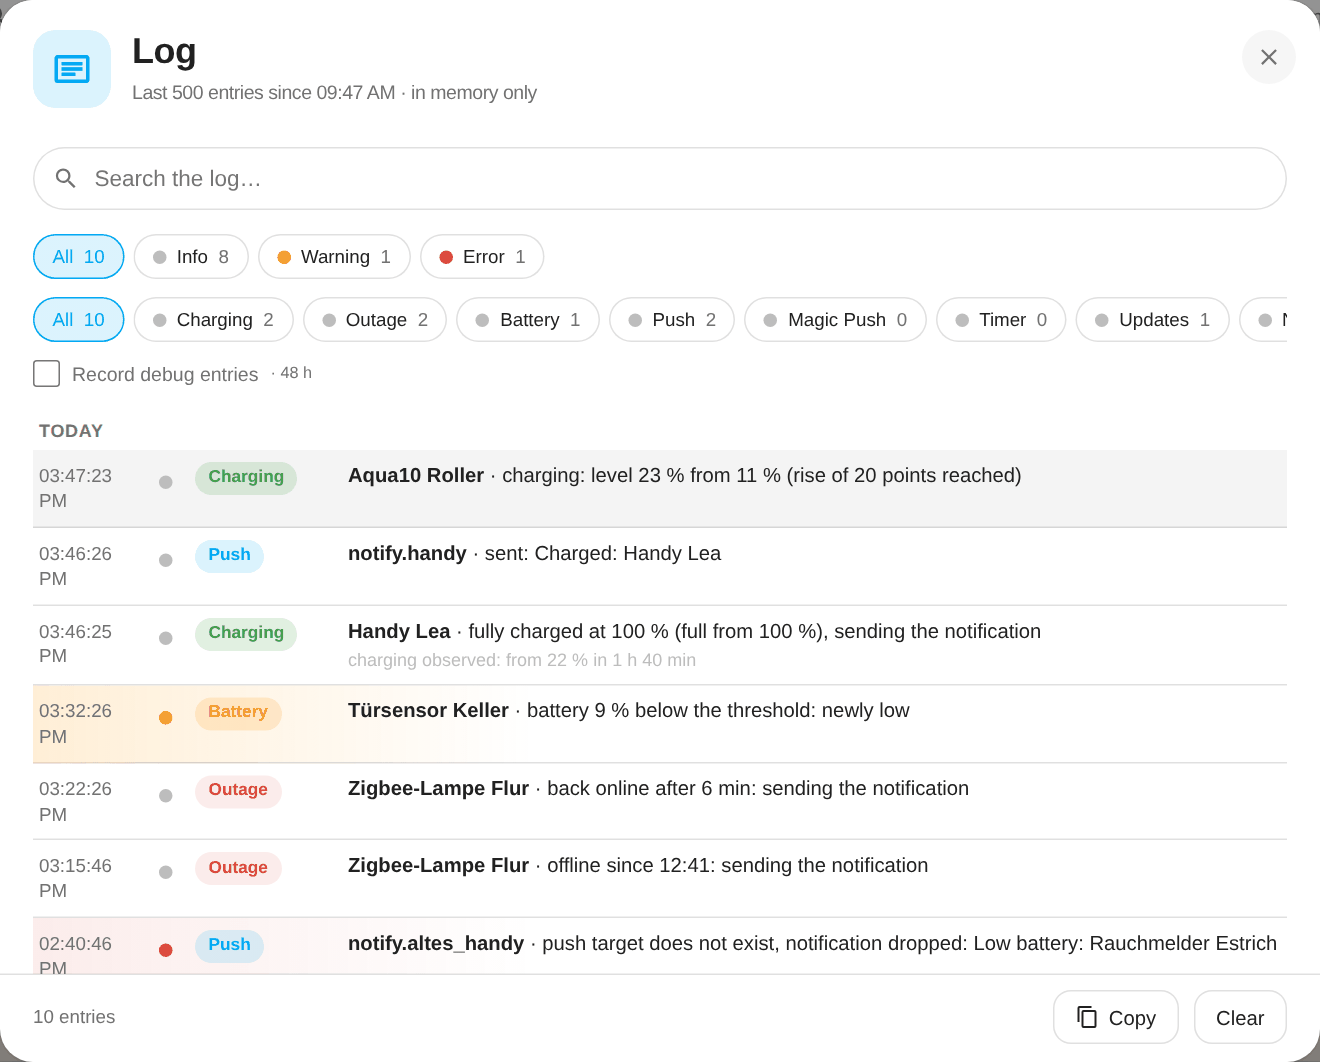
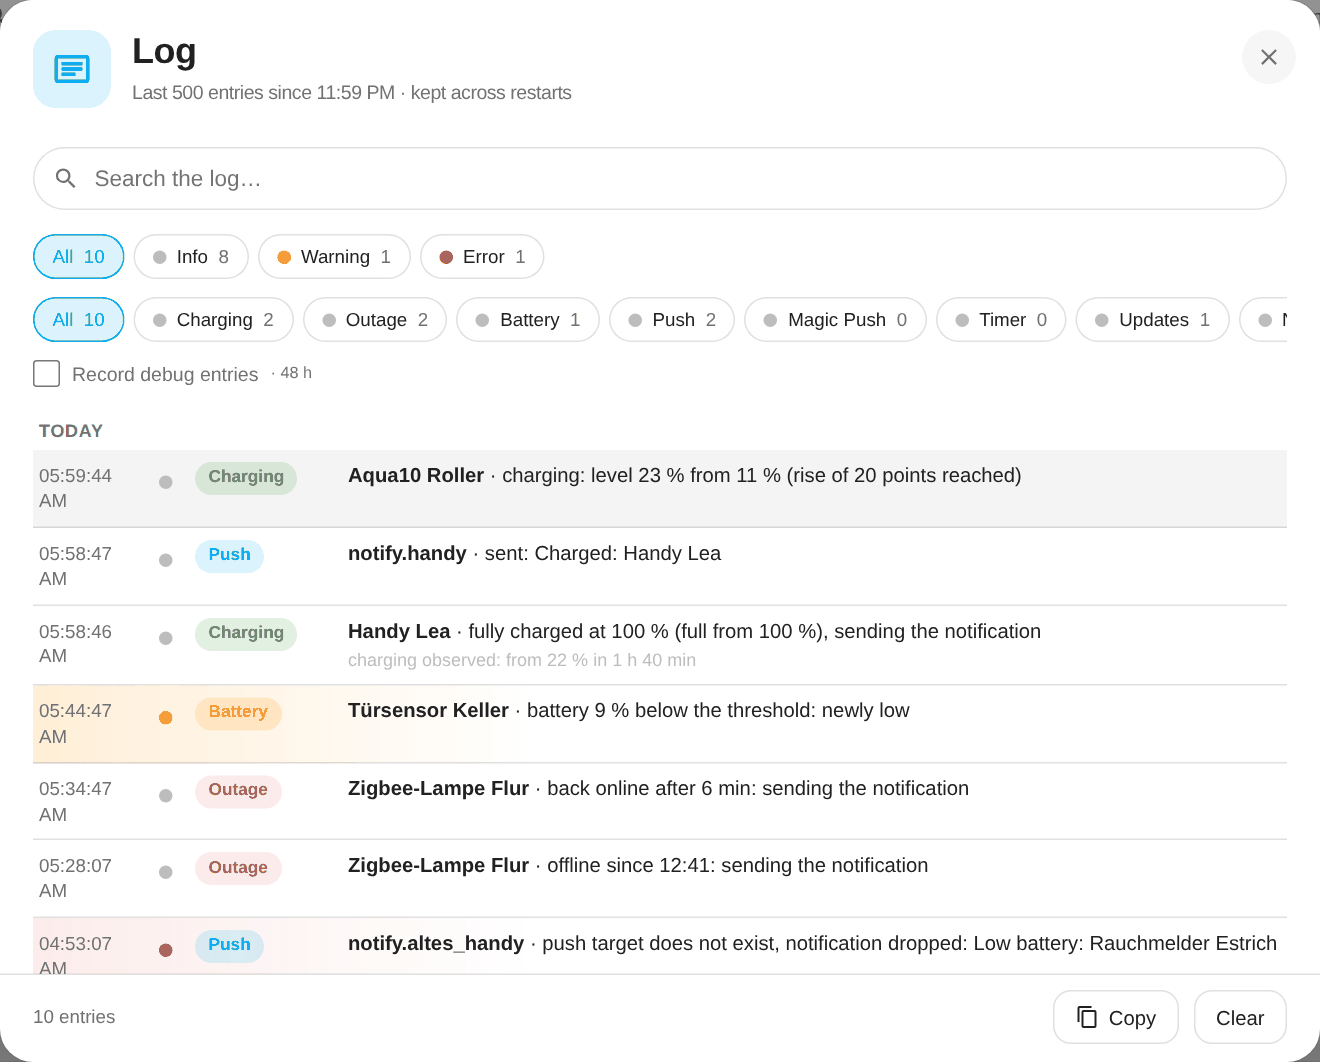
2.47.0: Protokoll-Einträge bleiben über Neustarts erhalten
- activity.py: die letzten 500 Einträge (Debug eingeschlossen) liegen mit dem Debug-Schalter in der Protokoll-Datei,
  verzögert geschrieben (30 s, ein angesetztes Schreiben wird nicht neu gestartet), beim Start vor die neuen Einträge gesetzt;
  beschädigte Einträge werden übersprungen, "Leeren" und Entfernen der Integration löschen sie
- Panel: Fenstertext "bleiben nach einem Neustart erhalten", Bilder log.png (DE/EN) neu
- Tests: test_activity.py (Neustart, Grenze 500, beschädigte Einträge); README und CHANGELOG (DE/EN)

Claude-Session: https://claude.ai/code/session_01U1q7hu4Br2u4E6fFdEJMgU

diff --git a/custom_components/device_panel/panel/strings.js b/custom_components/device_panel/panel/strings.js
@@ -861,7 +861,7 @@ export const STRINGS = {
     // Protokoll (seit 1.38.0, docs/mockups/popup-tabs-log-v1, P1)
     logBtn: "Protokoll",
     logTitle: "Protokoll",
-    logSub: (max, since) => `Letzte ${max} Einträge${since ? ` seit ${since}` : ""} · nur im Arbeitsspeicher`,
+    logSub: (max, since) => `Letzte ${max} Einträge${since ? ` seit ${since}` : ""} · bleiben nach einem Neustart erhalten`,
     logSearch: "Im Protokoll suchen…",
     logAll: "Alle",
     logLevel_debug: "Debug",
@@ -2442,7 +2442,7 @@ export const STRINGS = {
     // Log (since 1.38.0, docs/mockups/popup-tabs-log-v1, P1)
     logBtn: "Log",
     logTitle: "Log",
-    logSub: (max, since) => `Last ${max} entries${since ? ` since ${since}` : ""} · in memory only`,
+    logSub: (max, since) => `Last ${max} entries${since ? ` since ${since}` : ""} · kept across restarts`,
     logSearch: "Search the log…",
     logAll: "All",
     logLevel_debug: "Debug",

diff --git a/custom_components/device_panel/panel/device-panel.js b/custom_components/device_panel/panel/device-panel.js
@@ -3013,7 +3013,7 @@ class DevicePanel extends HTMLElement {
 
   // --- Protokoll (seit 1.38.0, docs/mockups/popup-tabs-log-v1, P1) ----------------
   // Eigener Knopf in der Kopfzeile, Fenster gross auf dem Desktop, auf dem Handy vollflächig. Die Einträge
-  // liegen im Arbeitsspeicher der Integration (nur Administratoren); das Fenster fragt alle 4 Sekunden nach.
+  // liegen in der Integration und bleiben über Neustarts erhalten (nur Administratoren); das Fenster fragt alle 4 Sekunden nach.
 
   _logState() {
     if (!this._log) {

diff --git a/custom_components/device_panel/activity.py b/custom_components/device_panel/activity.py
@@ -1,12 +1,14 @@
 """
 Protokoll der Integration (seit 1.38.0, Knopf "Protokoll" im Panel): zeigt, was die Meldungen
 entscheiden und warum etwas nicht kam ("Lademeldung aus", "kein Push-Ziel", "stumm" …). Die
-Einträge liegen nur im Arbeitsspeicher (Ringspeicher, die letzten MAX_ENTRIES) und gehen beim
-Neustart verloren: Das Protokoll dient der Fehlersuche, nicht der Aufbewahrung. Debug-Einträge
+Einträge liegen in einem Ringspeicher (die letzten MAX_ENTRIES). Seit 2.47.0 bleiben sie über
+Neustarts von Home Assistant erhalten (Wunsch des Nutzers: Debug-Einträge sollen einen Neustart
+überstehen, sonst fehlt genau der Verlauf davor); sie liegen mit dem Debug-Schalter in einer
+kleinen Datei, verzögert geschrieben. Debug-Einträge
 (Zwischenstände wie jeder neue Batteriestand) werden nur aufgezeichnet, solange der Schalter im
 Protokoll-Fenster an ist. Der Schalter bleibt seit 2.32.0 über Neustarts von Home Assistant
 erhalten, aber nur DEBUG_HOURS Stunden lang (Wunsch des Nutzers): Er merkt sich sein Ablaufdatum
-in einer kleinen Datei und schaltet sich dann von selbst aus. Zusätzlich gehen die Einträge ans Python-Protokoll von Home Assistant
+und schaltet sich dann von selbst aus. Zusätzlich gehen die Einträge ans Python-Protokoll von Home Assistant
 (Warnungen und Fehler sind dort ohnehin sichtbar).
 
 Texte stehen in der Sprache der Instanz wie die Push-Meldungen (DE und EN mit denselben
@@ -34,6 +36,8 @@ MAX_ENTRIES = 500
 # So lange bleibt der Debug-Schalter an (auch über Neustarts), danach schaltet er sich aus.
 DEBUG_HOURS = 48
 STORE_KEY = f"{DOMAIN}.debug"
+# Verzögerung des Schreibens: Fasst viele Einträge zu einem Schreibvorgang zusammen (HA schreibt beim Beenden ohnehin).
+SAVE_DELAY = 30
 LEVELS = ("debug", "info", "warning", "error")
 CATEGORIES = ("charge", "outage", "battery", "new", "updates", "magic", "timer", "push", "system")
 
@@ -243,6 +247,8 @@ class ActivityLog:
         # Zeitpunkt (Unix), zu dem der Debug-Schalter ausläuft; None bei ausgeschaltetem Schalter
         self.debug_until: float | None = None
         self.restored = False
+        self.store: Store | None = None  # eine Instanz je Start: so fasst ein Zeitgeber alle Einträge zusammen
+        self.save_pending = False
         self._expiry: CALLBACK_TYPE | None = None
         self.since = time.time()
 
@@ -282,6 +288,7 @@ def record(hass: HomeAssistant, severity: str, cat: str, code: str, name: str = 
         "device_id": device_id,
     }
     log.entries.append(entry)
+    _save(hass)
     _LOGGER.log(_PY_LEVEL[severity], "%s: %s%s", name or cat, text, f" ({entry['detail']})" if entry["detail"] else "")
 
 
@@ -304,10 +311,27 @@ def snapshot(hass: HomeAssistant) -> dict[str, Any]:
     }
 
 
+def _store(hass: HomeAssistant, log: ActivityLog) -> Store:
+    if log.store is None:
+        log.store = Store(hass, STORAGE_VERSION, STORE_KEY)
+    return log.store
+
+
 def _save(hass: HomeAssistant) -> None:
-    """Ablaufdatum des Schalters merken (verzögert, auch beim Beenden von HA geschrieben)."""
+    """
+    Ablaufdatum des Schalters und Einträge merken (verzögert, auch beim Beenden von HA geschrieben). Ein bereits
+    angesetztes Schreiben wird nicht neu gestartet, sonst käme ein stetiger Strom von Einträgen nie zum Schreiben.
+    """
     log = get(hass)
-    Store(hass, STORAGE_VERSION, STORE_KEY).async_delay_save(lambda: {"debug_until": log.debug_until if log.debug else None}, 1)
+    if log.save_pending:
+        return
+    log.save_pending = True
+
+    def data() -> dict[str, Any]:
+        log.save_pending = False
+        return {"debug_until": log.debug_until if log.debug else None, "entries": list(log.entries)}
+
+    _store(hass, log).async_delay_save(data, SAVE_DELAY)
 
 
 def _arm(hass: HomeAssistant, log: ActivityLog) -> None:
@@ -344,7 +368,8 @@ async def async_restore(hass: HomeAssistant) -> None:
     if log.restored:
         return
     log.restored = True
-    data = await Store(hass, STORAGE_VERSION, STORE_KEY).async_load() or {}
+    data = await _store(hass, log).async_load() or {}
+    _restore_entries(log, data.get("entries"))
     until = data.get("debug_until")
     if isinstance(until, (int, float)) and until > time.time():
         log.debug = True
@@ -354,12 +379,32 @@ async def async_restore(hass: HomeAssistant) -> None:
         record(hass, "info", "system", "debug_restored", "Device Panel", until=stamp)
 
 
+def _restore_entries(log: ActivityLog, stored: Any) -> None:
+    """Gemerkte Einträge vor die seit dem Start aufgezeichneten setzen (höchstens MAX_ENTRIES, die neuesten)."""
+    if not isinstance(stored, list):
+        return
+    keys = {"at", "level", "cat", "title", "text", "detail", "device_id"}
+    old = [
+        {k: e.get(k, None if k == "device_id" else "") for k in keys}
+        for e in stored
+        if isinstance(e, dict) and isinstance(e.get("at"), (int, float)) and e.get("level") in LEVELS and isinstance(e.get("text"), str)
+    ]
+    if not old:
+        return
+    merged = sorted([*old, *log.entries], key=lambda e: e["at"])[-MAX_ENTRIES:]
+    log.entries.clear()
+    log.entries.extend(merged)
+    # "Seit" nennt den Beginn des Verlaufs, nicht den letzten Start
+    log.since = min(log.since, merged[0]["at"])
+
+
 async def async_forget(hass: HomeAssistant) -> None:
-    """Integration entfernt: Zeitgeber stoppen, gemerkten Schalter löschen."""
-    if (log := hass.data.get(DATA_ACTIVITY)) is not None:
-        log.cancel_expiry()
-    await Store(hass, STORAGE_VERSION, STORE_KEY).async_remove()
+    """Integration entfernt: Zeitgeber stoppen, gemerkten Schalter und Einträge löschen."""
+    log = get(hass)
+    log.cancel_expiry()
+    await _store(hass, log).async_remove()
 
 
 def clear(hass: HomeAssistant) -> None:
     get(hass).entries.clear()
+    _save(hass)

diff --git a/tests/test_activity.py b/tests/test_activity.py
@@ -147,9 +147,9 @@ async def test_debug_survives_restart_for_48_hours(hass: HomeAssistant, hass_sto
     until = activity.snapshot(hass)["debug_until"]
     assert abs(until - (before + activity.DEBUG_HOURS * 3600)) < 5 and activity.DEBUG_HOURS == 48
     # geschrieben (verzögert), danach Neustart: der Stand von HA im Arbeitsspeicher ist weg, die Datei bleibt
-    async_fire_time_changed(hass, dt_util.utcnow() + timedelta(seconds=5))
+    async_fire_time_changed(hass, dt_util.utcnow() + timedelta(seconds=activity.SAVE_DELAY + 1))
     await hass.async_block_till_done()
-    assert hass_storage[activity.STORE_KEY]["data"] == {"debug_until": until}
+    assert hass_storage[activity.STORE_KEY]["data"]["debug_until"] == until
     hass.data.pop(DATA_ACTIVITY).cancel_expiry()
     assert activity.snapshot(hass)["debug"] is False
     await activity.async_restore(hass)
@@ -168,7 +168,7 @@ async def test_debug_survives_restart_for_48_hours(hass: HomeAssistant, hass_sto
     assert any("48" in e["text"] for e in snap["entries"])
     async_fire_time_changed(hass, dt_util.utcnow() + timedelta(hours=48, minutes=1, seconds=10))
     await hass.async_block_till_done()
-    assert hass_storage[activity.STORE_KEY]["data"] == {"debug_until": None}
+    assert hass_storage[activity.STORE_KEY]["data"]["debug_until"] is None
 
 
 async def test_expired_debug_stays_off_after_restart(hass: HomeAssistant, hass_storage: dict[str, Any]) -> None:
@@ -182,3 +182,52 @@ async def test_expired_debug_stays_off_after_restart(hass: HomeAssistant, hass_s
     activity.set_debug(hass, True)
     activity.set_debug(hass, False)
     assert activity.snapshot(hass)["debug_until"] is None
+
+
+async def test_entries_survive_restart(hass: HomeAssistant, hass_storage: dict[str, Any]) -> None:
+    """2.47.0: Die Einträge (Debug eingeschlossen) bleiben über einen Neustart, höchstens MAX_ENTRIES, neueste zuletzt."""
+    from datetime import timedelta  # noqa: PLC0415
+
+    from homeassistant.util import dt as dt_util  # noqa: PLC0415
+    from pytest_homeassistant_custom_component.common import async_fire_time_changed  # noqa: PLC0415
+
+    from custom_components.device_panel.const import DATA_ACTIVITY  # noqa: PLC0415
+
+    activity.set_debug(hass, True)
+    for n in range(activity.MAX_ENTRIES + 20):
+        activity.record(hass, "debug", "charge", "charge_level", f"G{n}", None, level=n % 100, low=40, full=100, rise=20)
+    activity.record(hass, "warning", "system", "debug_expired", "Device Panel", hours=48)
+    # viele Einträge, aber nur ein Schreibvorgang nach der Verzögerung
+    async_fire_time_changed(hass, dt_util.utcnow() + timedelta(seconds=activity.SAVE_DELAY + 1))
+    await hass.async_block_till_done()
+    stored = hass_storage[activity.STORE_KEY]["data"]["entries"]
+    assert len(stored) == activity.MAX_ENTRIES
+    # Neustart: Arbeitsspeicher weg, Datei bleibt
+    before = [(e["at"], e["title"]) for e in activity.snapshot(hass)["entries"]]
+    assert len(before) == activity.MAX_ENTRIES
+    hass.data.pop(DATA_ACTIVITY).cancel_expiry()
+    await activity.async_restore(hass)
+    snap = activity.snapshot(hass)
+    # gleiche Einträge in gleicher Reihenfolge; dazu der Eintrag "Debug-Modus wieder eingeschaltet" ganz am Ende
+    assert [(e["at"], e["title"]) for e in snap["entries"]][:-1] == before[1:]
+    assert snap["entries"][-1]["text"].startswith(("Debug-Modus", "debug mode"))
+    assert snap["since"] <= snap["entries"][0]["at"] + 1
+    # "Leeren" leert auch die Datei
+    activity.clear(hass)
+    async_fire_time_changed(hass, dt_util.utcnow() + timedelta(seconds=2 * activity.SAVE_DELAY + 2))
+    await hass.async_block_till_done()
+    assert hass_storage[activity.STORE_KEY]["data"]["entries"] == []
+
+
+async def test_damaged_stored_entries_are_ignored(hass: HomeAssistant, hass_storage: dict[str, Any]) -> None:
+    """2.47.0: Beschädigte gemerkte Einträge werden übersprungen, gültige bleiben."""
+    import time  # noqa: PLC0415
+
+    good = {"at": time.time() - 100, "level": "info", "cat": "system", "title": "A", "text": "alt", "detail": "", "device_id": None}
+    hass_storage[activity.STORE_KEY] = {
+        "version": 1, "minor_version": 1, "key": activity.STORE_KEY,
+        "data": {"debug_until": None, "entries": [good, "kaputt", {"at": "x"}, {"at": 1, "level": "boese", "text": "t"}, {"at": 2, "level": "info"}]},
+    }
+    await activity.async_restore(hass)
+    entries = activity.snapshot(hass)["entries"]
+    assert [e["text"] for e in entries] == ["alt"]

diff --git a/custom_components/device_panel/const.py b/custom_components/device_panel/const.py
@@ -13,7 +13,7 @@ PANEL_HTML_FILE = "panel.html"
 STATIC_URL_PATH = f"/{DOMAIN}"
 PANEL_STATIC_URL_PATH = f"{STATIC_URL_PATH}/panel"
 # Cache-Buster: bei jeder Änderung unter panel/ von Hand erhöhen.
-PANEL_VERSION = "205"
+PANEL_VERSION = "206"
 PANEL_PAGE_URL = f"{PANEL_STATIC_URL_PATH}/{PANEL_HTML_FILE}?v={PANEL_VERSION}"
 
 # Mitgeliefertes Bild für Push-Meldungen (Companion-App, "icon_url"), wie in

diff --git a/CHANGELOG.de.md b/CHANGELOG.de.md
@@ -7,6 +7,14 @@ Alle nennenswerten Änderungen an dieser Integration stehen in dieser Datei.
 Das Format folgt [Keep a Changelog](https://keepachangelog.com/de/1.1.0/),
 die Versionsnummern folgen [Semantic Versioning](https://semver.org/lang/de/).
 
+## [2.47.0] - 2026-10-15
+
+Protokoll: die Einträge überstehen einen Neustart von Home Assistant.
+
+### Geändert
+
+- Protokoll: die letzten 500 Einträge, Debug-Einträge eingeschlossen, bleiben jetzt über Neustarts von Home Assistant erhalten. Vorher lagen sie nur im Arbeitsspeicher und waren nach jedem Neustart weg, sodass der Verlauf, der ein Problem erklärt, genau dann fehlte, wenn man ihn brauchte. Die Grenze bleibt bei 500 Einträgen (den neuesten). Die Einträge stehen in der kleinen Protokoll-Datei der Integration, verzögert geschrieben, höchstens alle 30 Sekunden (und beim Beenden von Home Assistant); "Leeren" leert auch die gespeicherten Einträge, und beim Entfernen der Integration werden sie gelöscht. Das Fenster sagt "bleiben nach einem Neustart erhalten" statt "nur im Arbeitsspeicher", und "seit" nennt den Beginn des erhaltenen Verlaufs.
+
 ## [2.46.1] - 2026-10-15
 
 ### Geändert
@@ -3335,6 +3343,7 @@ Erste Vorabversion.
   GitHub Actions für die Prüfungen von HACS und hassfest sowie die Tests.
 
 [2.6.0]: https://github.com/Diegofuego871/ha-device-panel/releases/tag/v2.6.0
+[2.47.0]: https://github.com/Diegofuego871/ha-device-panel/releases/tag/v2.47.0
 [2.46.1]: https://github.com/Diegofuego871/ha-device-panel/releases/tag/v2.46.1
 [2.46.0]: https://github.com/Diegofuego871/ha-device-panel/releases/tag/v2.46.0
 [2.44.0]: https://github.com/Diegofuego871/ha-device-panel/releases/tag/v2.44.0

diff --git a/CHANGELOG.md b/CHANGELOG.md
@@ -7,6 +7,14 @@ All notable changes to this integration are documented in this file.
 The format is based on [Keep a Changelog](https://keepachangelog.com/en/1.1.0/),
 and this project adheres to [Semantic Versioning](https://semver.org/).
 
+## [2.47.0] - 2026-10-15
+
+Log: the entries survive a restart of Home Assistant.
+
+### Changed
+
+- Log: the last 500 entries, debug entries included, are now kept across restarts of Home Assistant. Before, they lived in memory only and were gone after every restart, so the history that explains a problem was missing right when it was needed. The limit stays at 500 entries (the newest ones). The entries are written to the integration's small log file, delayed and at most every 30 seconds (and when Home Assistant stops); "Clear" empties the stored entries too, and removing the integration deletes them. The window says "kept across restarts" instead of "in memory only", and "since" names the start of the kept history.
+
 ## [2.46.1] - 2026-10-15
 
 ### Changed
@@ -3234,6 +3242,7 @@ First pre-release.
   GitHub Actions for HACS/hassfest validation and tests.
 
 [2.6.0]: https://github.com/Diegofuego871/ha-device-panel/releases/tag/v2.6.0
+[2.47.0]: https://github.com/Diegofuego871/ha-device-panel/releases/tag/v2.47.0
 [2.46.1]: https://github.com/Diegofuego871/ha-device-panel/releases/tag/v2.46.1
 [2.46.0]: https://github.com/Diegofuego871/ha-device-panel/releases/tag/v2.46.0
 [2.44.0]: https://github.com/Diegofuego871/ha-device-panel/releases/tag/v2.44.0

diff --git a/README.de.md b/README.de.md
@@ -184,7 +184,7 @@ Ein Knopf in der Kopfzeile öffnet einen Launcher mit nützlichen Seiten, in den
 - **Eigene Links:** eine Seite in Home Assistant oder ein externer Link, der in einem neuen Browser-Tab öffnet, auf Wunsch mit seinem Favicon als Symbol
 - **Favoriten:** ein Herz markiert bis zu fünf Apps, die eigene Knöpfe in der Kopfzeile bekommen
 - **Bearbeiten-Modus:** per Ziehen sortieren, Apps mit dem Auge ausblenden, Raster oder Liste; alles wird pro Benutzer gespeichert
-- **Protokoll:** zeigt, was die Meldungen entscheiden und warum eine nicht kam, mit Filter und Suche und einem optionalen Debug-Modus (für 48 Stunden eingeschaltet, auch über Neustarts)
+- **Protokoll:** zeigt, was die Meldungen entscheiden und warum eine nicht kam, mit Filter und Suche (die letzten 500 Einträge bleiben über Neustarts erhalten) und einem optionalen Debug-Modus (für 48 Stunden eingeschaltet, auch über Neustarts)
 
 ## Einstellungen im Panel
 

diff --git a/README.md b/README.md
@@ -184,7 +184,7 @@ A button in the header opens a launcher with useful pages, in the symbols and co
 - **Your own links:** a page in Home Assistant or an external link that opens in a new browser tab, with its favicon as icon if you like
 - **Favorites:** a heart marks up to five apps that get their own buttons in the header
 - **Edit mode:** sort by dragging, hide apps with the eye, grid or list; everything is saved per user
-- **Log:** shows what the notifications decide and why one did not come, with filter and search, and an optional debug mode (switched on for 48 hours, also across restarts)
+- **Log:** shows what the notifications decide and why one did not come, with filter and search (the last 500 entries are kept across restarts), and an optional debug mode (switched on for 48 hours, also across restarts)
 
 ## Settings in the panel
 
